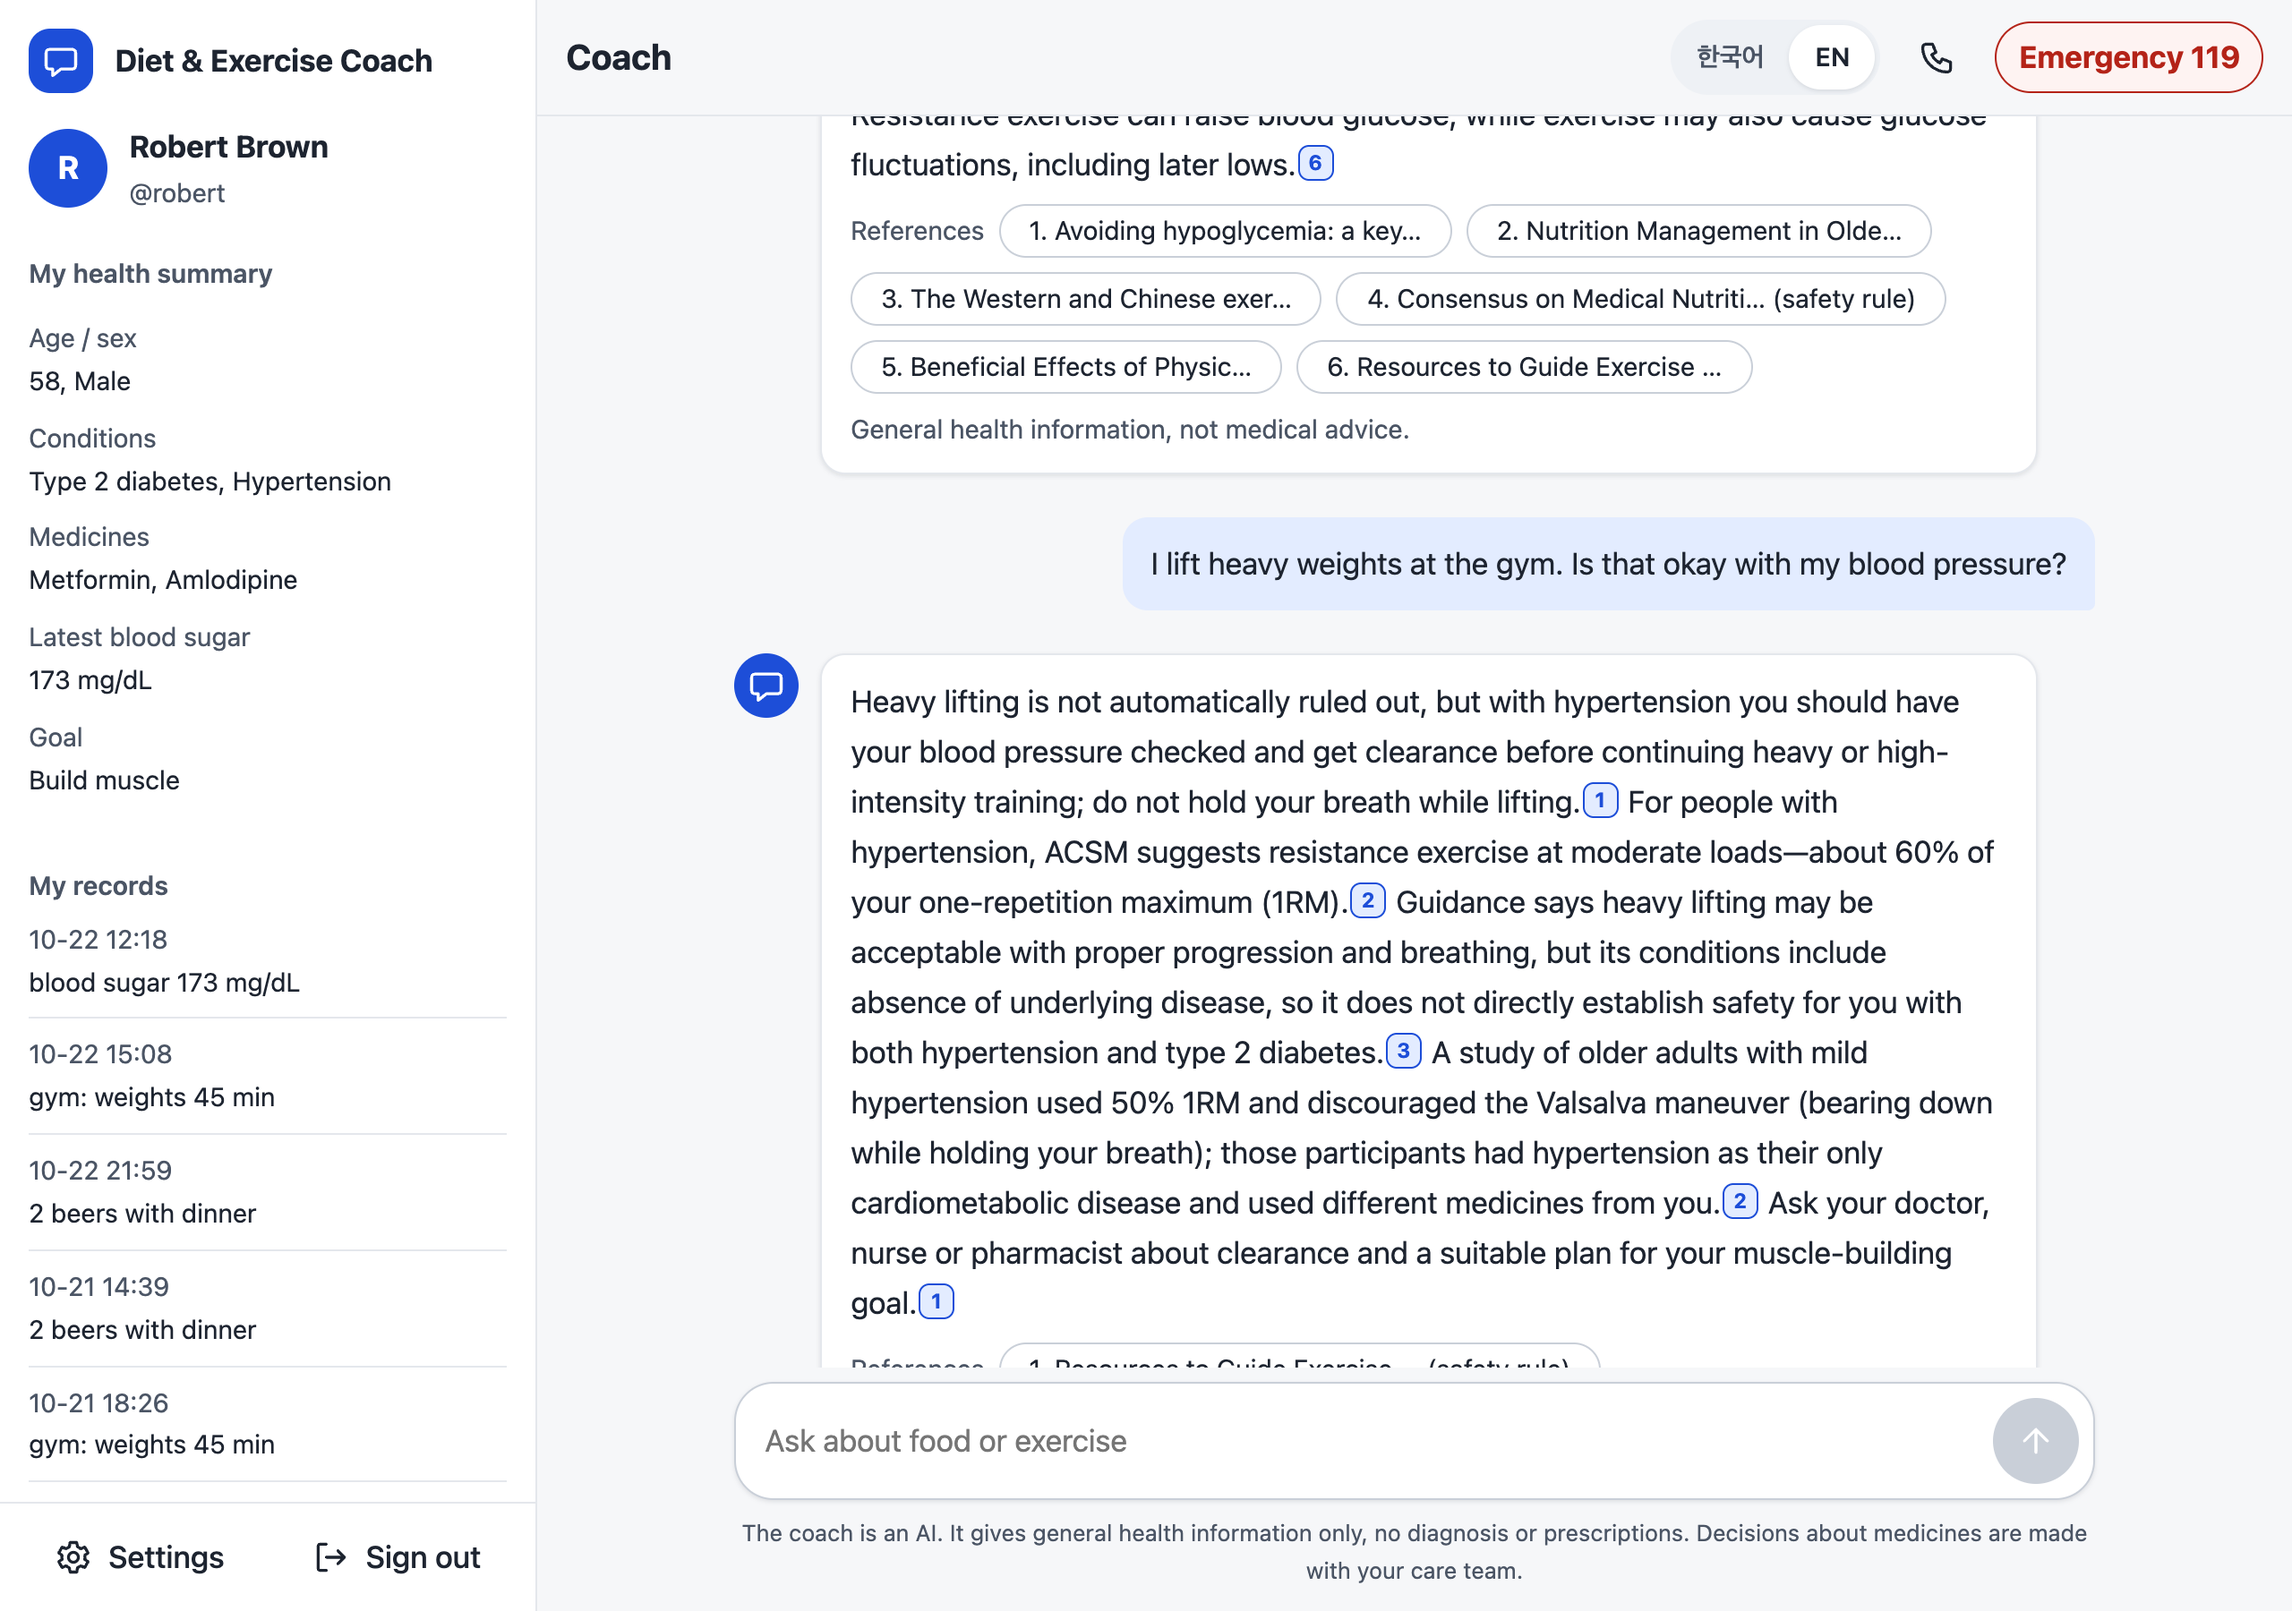
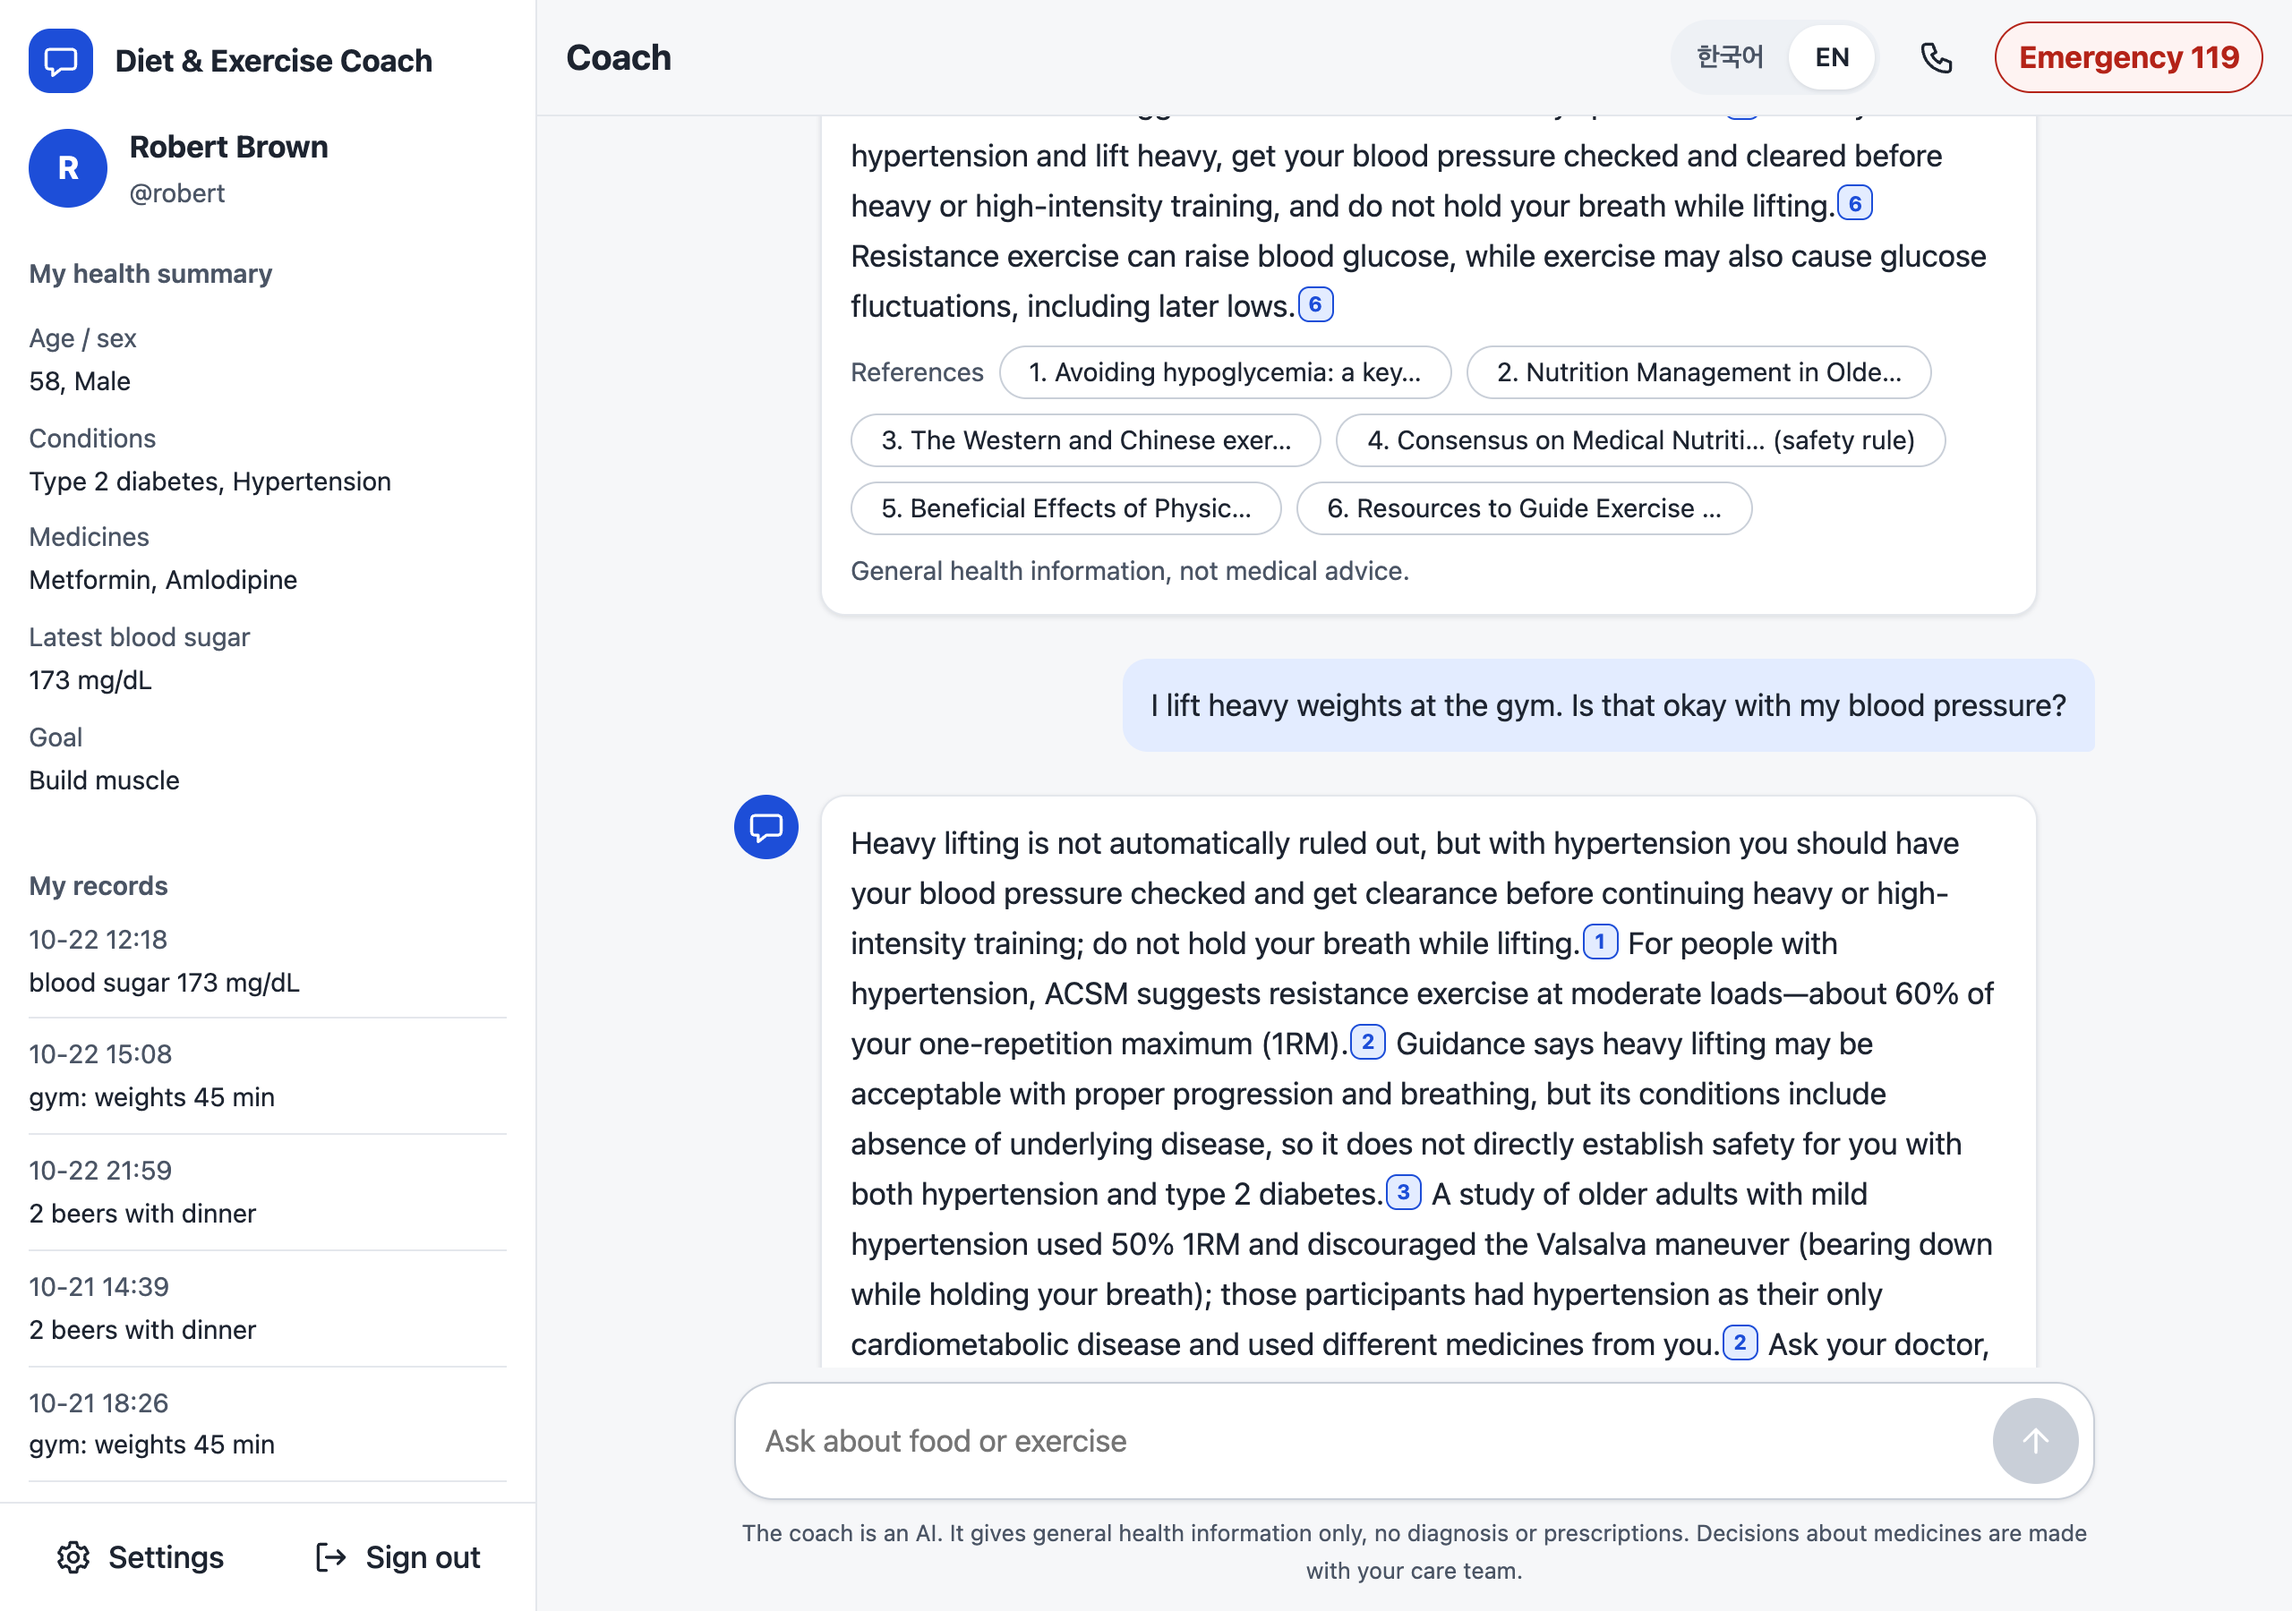
Close-up screenshot of the smaller citation boxes and evidence chips

Changed region(s): [[0.3125, 0.0622, 0.9062, 0.84], [0.3125, 0.4044, 0.375, 0.4667]]

diff --git a/scripts/ui_screenshots_readme.py b/scripts/ui_screenshots_readme.py
@@ -60,6 +60,10 @@ def main():
             pg.screenshot(path=OUT / f"01_user_login_{lang}.png")
             enter(pg); to_first_answer(pg)
             pg.screenshot(path=OUT / f"02_chat_answer_{lang}.png")
+            pg.evaluate("(()=>{const c=document.querySelectorAll('.cite')[window.__cite||0];let n=c;while(n&&!(n.querySelector&&n.querySelector('.srcs')&&n.parentElement.id==='thread'))n=n.parentElement;(n.querySelector('.srcs')).scrollIntoView({block:'center'})})()"); pg.wait_for_timeout(300)
+            box = pg.evaluate("(()=>{const c=document.querySelectorAll('.cite')[window.__cite||0];let n=c;while(n&&!(n.querySelector&&n.querySelector('.srcs')&&n.parentElement.id==='thread'))n=n.parentElement;const s=n.querySelector('.srcs').getBoundingClientRect(),r=n.getBoundingClientRect();return {x:r.x,y:Math.max(s.top-250,70),w:r.width,h:Math.min(s.bottom+50,760)-Math.max(s.top-250,70)}})()")
+            pg.screenshot(path=OUT / f"02b_citation_closeup_{lang}.png", clip={"x": box["x"], "y": box["y"], "width": box["w"], "height": box["h"]})
+            to_first_answer(pg)
             click_cite(pg); pg.wait_for_timeout(700); pg.evaluate(NO_DIM); pg.wait_for_timeout(200)
             pg.screenshot(path=OUT / f"03_evidence_panel_{lang}.png")
             pg.keyboard.press("Escape")

diff --git a/README.md b/README.md
@@ -35,6 +35,10 @@
 
 왼쪽에는 로그인한 사람의 건강 요약(나이, 질환, 복용 약, 최근 혈당)과 내 기록이 보입니다. 질문 "2형 당뇨는 저녁 먹고 잠깐 걸으면 혈당에 좋아요?"에 대한 답변 문장 끝의 파란 번호와 답변 아래 "근거" 칩이 이 문장을 뒷받침하는 논문입니다. 논문 제목은 원문 그대로 영어로 보여 줍니다.
 
+확대하면 이렇게 보입니다. 문장 끝의 작은 파란 번호 박스(1)가 근거 논문 번호이고, 아래 "근거" 칩에 그 논문 제목이 있습니다. 번호 박스는 글자보다 작게 보이지만 누르는 영역은 더 넓게 잡았습니다.
+
+<p align="center"><img src="docs/ui/screenshots/readme/02b_citation_closeup_ko.png" alt="근거 번호 박스와 근거 칩 확대" width="760"></p>
+
 #### 3. 근거 패널: 인용 문장과 논문 원문
 <p align="center"><img src="docs/ui/screenshots/readme/03_evidence_panel_ko.png" alt="근거 패널" width="960"></p>
 
